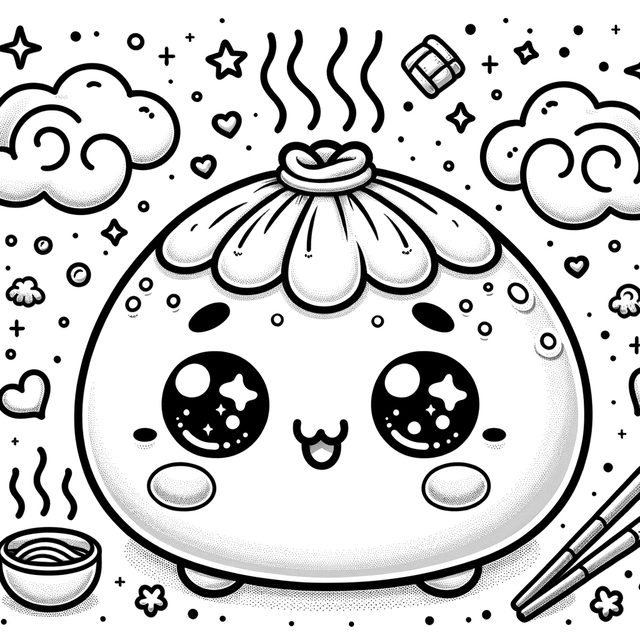
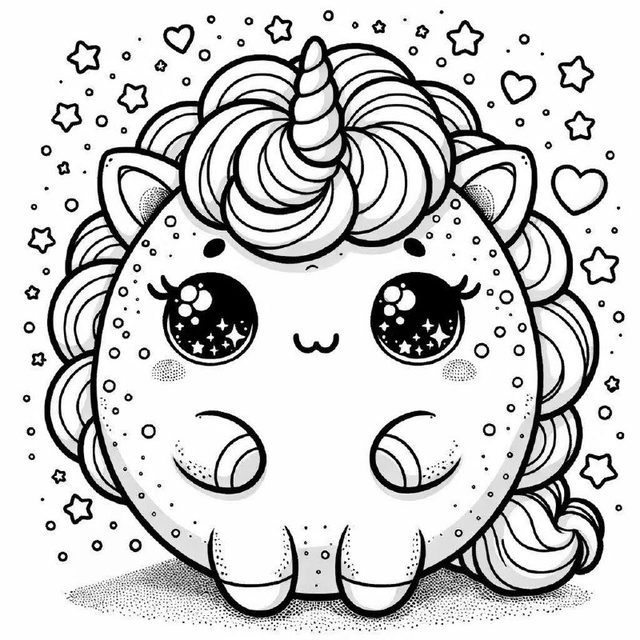
Add /color in-browser coloring page, dumpling easter egg, unicorn Mini Pack preview, IndexNow key
- color.html: canvas flood-fill coloring of The Dumpling, 12-color palette,
  undo/reset/download, CTA to /free
- 5 taps on the homepage dumpling icon -> pixel confetti + secret bonus page modal
- Mini Pack preview image swapped dumpling -> unicorn (dumpling stays online-exclusive)
- footer Color Online link, /color redirect, sitemap entry

diff --git a/color.html b/color.html
@@ -1,0 +1,191 @@
+<!DOCTYPE html>
+<html lang="en">
+<head>
+  <meta charset="UTF-8" />
+  <meta name="viewport" content="width=device-width, initial-scale=1.0" />
+  <title>Color The Dumpling Online – Free In-Browser Coloring | VoxelInk Studios</title>
+  <meta name="description" content="Color The Dumpling right in your browser - tap to fill, pick your colors, and download your masterpiece. A free kawaii coloring page from VoxelInk Studios." />
+  <link rel="canonical" href="https://voxelinkstudios.com/color" />
+  <link rel="preconnect" href="https://fonts.googleapis.com" />
+  <link rel="preconnect" href="https://fonts.gstatic.com" crossorigin />
+  <link href="https://fonts.googleapis.com/css2?family=Press+Start+2P&family=Inter:wght@400;500;600;700&display=swap" rel="stylesheet" />
+  <link rel="stylesheet" href="css/style.css" />
+  <style>
+    .color-hero { padding: 4rem 1rem 3rem; text-align: center; }
+    .color-hero .section-inner { max-width: 860px; margin: 0 auto; }
+    .color-stage {
+      background: #fff; border-radius: 14px; padding: 12px;
+      max-width: 560px; margin: 1.75rem auto 0;
+      box-shadow: 0 10px 36px rgba(0,0,0,0.25);
+    }
+    #colorCanvas { width: 100%; height: auto; display: block; border-radius: 8px; cursor: crosshair; touch-action: manipulation; }
+    .palette {
+      display: flex; flex-wrap: wrap; gap: 10px; justify-content: center;
+      margin: 1.25rem auto 0; max-width: 560px;
+    }
+    .swatch {
+      width: 42px; height: 42px; border-radius: 10px; border: 3px solid transparent;
+      cursor: pointer; padding: 0; transition: transform 0.12s, border-color 0.12s;
+    }
+    .swatch:hover { transform: scale(1.12); }
+    .swatch.active { border-color: #fff; box-shadow: 0 0 0 2px #e91e8c; transform: scale(1.12); }
+    .color-actions { display: flex; gap: 12px; justify-content: center; margin-top: 1.25rem; flex-wrap: wrap; }
+    .color-note { font-size: 0.85rem; color: var(--text-muted, #999); margin-top: 0.9rem; }
+    .color-cta {
+      margin: 2.5rem auto 0; max-width: 560px; padding: 1.5rem;
+      border: 2px dashed #e91e8c; border-radius: 14px;
+    }
+    .color-cta h2 { font-family: var(--pixel-font); font-size: 0.85rem; margin: 0 0 0.6rem; color: #e91e8c; }
+    .color-cta p { margin: 0 0 1rem; }
+  </style>
+</head>
+<body>
+
+  <section class="signup color-hero">
+    <div class="section-inner">
+      <div class="section-label">Play Right Here</div>
+      <h1 class="section-title">Color The Dumpling</h1>
+      <p class="signup-sub">Pick a color, then tap anywhere on the picture to fill it in. No printer needed - color right in your browser!</p>
+
+      <div class="color-stage">
+        <canvas id="colorCanvas" width="720" height="720" aria-label="Coloring canvas featuring The Dumpling - pick a color and tap to fill"></canvas>
+      </div>
+
+      <div class="palette" id="palette" role="toolbar" aria-label="Color palette"></div>
+
+      <div class="color-actions">
+        <button type="button" id="undoBtn" class="btn btn-etsy">Undo</button>
+        <button type="button" id="resetBtn" class="btn btn-etsy">Start Over</button>
+        <button type="button" id="downloadBtn" class="btn btn-primary">Download My Art</button>
+      </div>
+      <p class="color-note">Tip: tap the small spots too - every space can be a different color.</p>
+
+      <div class="color-cta">
+        <h2>Want 5 more pages like this?</h2>
+        <p>Get the free VoxelInk Mini Pack - printable coloring pages from all four of our books, sent straight to your inbox.</p>
+        <a class="btn btn-primary" href="/free">Get the Free Mini Pack →</a>
+      </div>
+
+      <a class="btn btn-etsy" style="margin-top:2rem;display:inline-block;" href="/">← Back to VoxelInk Studios</a>
+    </div>
+  </section>
+
+  <footer class="footer">
+    <div class="section-inner footer-inner">
+      <div class="footer-logo">
+        <span class="logo-pixel">▓</span> VoxelInk Studios
+      </div>
+      <p class="footer-copy">© 2026 VoxelInk Studios. All rights reserved. Not affiliated with Minecraft or Mojang. | <a href="/privacy-policy.html">Privacy Policy</a> | <a href="/terms.html">Terms of Service</a></p>
+    </div>
+  </footer>
+
+  <script>
+  (function () {
+    const canvas = document.getElementById('colorCanvas');
+    const ctx = canvas.getContext('2d', { willReadFrequently: true });
+    const W = canvas.width, H = canvas.height;
+
+    const COLORS = [
+      '#ff5a5f', '#ff9e42', '#ffd93d', '#7ed957', '#4ecdc4', '#4a9df8',
+      '#9b6bf3', '#ff8fab', '#a0664b', '#c9cdd6', '#3a3a44', '#ffffff'
+    ];
+    let current = COLORS[7]; // start on pink - it is The Dumpling after all
+    let history = [];
+
+    const palette = document.getElementById('palette');
+    COLORS.forEach((c, i) => {
+      const b = document.createElement('button');
+      b.type = 'button';
+      b.className = 'swatch' + (c === current ? ' active' : '');
+      b.style.background = c;
+      b.setAttribute('aria-label', 'Color ' + (i + 1));
+      b.addEventListener('click', () => {
+        current = c;
+        palette.querySelectorAll('.swatch').forEach((s) => s.classList.remove('active'));
+        b.classList.add('active');
+      });
+      palette.appendChild(b);
+    });
+
+    const img = new Image();
+    img.src = 'images/color-dumpling.png';
+    img.onload = () => {
+      ctx.fillStyle = '#ffffff';
+      ctx.fillRect(0, 0, W, H);
+      ctx.drawImage(img, 0, 0, W, H);
+      snapshot();
+    };
+
+    function snapshot() {
+      history.push(ctx.getImageData(0, 0, W, H));
+      if (history.length > 25) history.shift();
+    }
+
+    // Flood fill: dark pixels are outlines and act as walls.
+    const LINE_LUMA = 90;
+    function floodFill(x, y, hex) {
+      const imgData = ctx.getImageData(0, 0, W, H);
+      const d = imgData.data;
+      const idx = (y * W + x) * 4;
+      const luma = (d[idx] + d[idx + 1] + d[idx + 2]) / 3;
+      if (luma < LINE_LUMA) return false; // clicked an outline
+
+      const fr = parseInt(hex.slice(1, 3), 16), fg = parseInt(hex.slice(3, 5), 16), fb = parseInt(hex.slice(5, 7), 16);
+      const tr = d[idx], tg = d[idx + 1], tb = d[idx + 2];
+      if (Math.abs(tr - fr) + Math.abs(tg - fg) + Math.abs(tb - fb) < 12) return false; // same color
+
+      const TOL = 60;
+      const match = (i) => {
+        const l = (d[i] + d[i + 1] + d[i + 2]) / 3;
+        if (l < LINE_LUMA) return false;
+        return Math.abs(d[i] - tr) + Math.abs(d[i + 1] - tg) + Math.abs(d[i + 2] - tb) <= TOL * 3;
+      };
+
+      const stack = [y * W + x];
+      const seen = new Uint8Array(W * H);
+      seen[y * W + x] = 1;
+      while (stack.length) {
+        const p = stack.pop();
+        const i = p * 4;
+        d[i] = fr; d[i + 1] = fg; d[i + 2] = fb; d[i + 3] = 255;
+        const px = p % W, py = (p / W) | 0;
+        if (px > 0 && !seen[p - 1] && match((p - 1) * 4)) { seen[p - 1] = 1; stack.push(p - 1); }
+        if (px < W - 1 && !seen[p + 1] && match((p + 1) * 4)) { seen[p + 1] = 1; stack.push(p + 1); }
+        if (py > 0 && !seen[p - W] && match((p - W) * 4)) { seen[p - W] = 1; stack.push(p - W); }
+        if (py < H - 1 && !seen[p + W] && match((p + W) * 4)) { seen[p + W] = 1; stack.push(p + W); }
+      }
+      ctx.putImageData(imgData, 0, 0);
+      return true;
+    }
+
+    canvas.addEventListener('pointerdown', (e) => {
+      const r = canvas.getBoundingClientRect();
+      const x = Math.floor((e.clientX - r.left) * (W / r.width));
+      const y = Math.floor((e.clientY - r.top) * (H / r.height));
+      if (x < 0 || y < 0 || x >= W || y >= H) return;
+      if (floodFill(x, y, current)) snapshot();
+    });
+
+    document.getElementById('undoBtn').addEventListener('click', () => {
+      if (history.length > 1) {
+        history.pop();
+        ctx.putImageData(history[history.length - 1], 0, 0);
+      }
+    });
+    document.getElementById('resetBtn').addEventListener('click', () => {
+      if (history.length) {
+        ctx.putImageData(history[0], 0, 0);
+        history = [history[0]];
+      }
+    });
+    document.getElementById('downloadBtn').addEventListener('click', () => {
+      const a = document.createElement('a');
+      a.download = 'my-dumpling-coloring.png';
+      a.href = canvas.toDataURL('image/png');
+      a.click();
+    });
+  })();
+  </script>
+  <script data-goatcounter="https://voxelink.goatcounter.com/count" async src="//gc.zgo.at/count.js"></script>
+</body>
+</html>

diff --git a/js/main.js b/js/main.js
@@ -152,3 +152,61 @@ if (flipInners.length && booksSection && touchOnly && !prefersStill) {
   }, { threshold: 0.15 });
   flipObserver.observe(booksSection);
 }
+
+// ── DUMPLING EASTER EGG ──
+// Tap The Dumpling icon 5 times to unlock a secret bonus page.
+const dumpling = document.getElementById('dumplingIcon');
+if (dumpling) {
+  let taps = 0;
+  let lastTap = 0;
+  const CONFETTI_COLORS = ['#e91e8c', '#4ade80', '#f5b301', '#4a9df8', '#ff8fab', '#9b6bf3'];
+
+  dumpling.addEventListener('click', (e) => {
+    e.preventDefault();
+    e.stopPropagation();
+    const now = Date.now();
+    taps = now - lastTap < 3000 ? taps + 1 : 1;
+    lastTap = now;
+    // little squish per tap for feedback
+    dumpling.style.transform = 'scale(0.85)';
+    setTimeout(() => { dumpling.style.transform = ''; }, 120);
+    if (taps >= 5) {
+      taps = 0;
+      throwConfetti();
+      showEggModal();
+    }
+  });
+
+  function throwConfetti() {
+    if (window.matchMedia('(prefers-reduced-motion: reduce)').matches) return;
+    for (let i = 0; i < 70; i++) {
+      const c = document.createElement('div');
+      c.className = 'pixel-confetti';
+      c.style.left = Math.random() * 100 + 'vw';
+      c.style.background = CONFETTI_COLORS[i % CONFETTI_COLORS.length];
+      c.style.animationDuration = 1.6 + Math.random() * 1.8 + 's';
+      c.style.animationDelay = Math.random() * 0.6 + 's';
+      document.body.appendChild(c);
+      setTimeout(() => c.remove(), 4200);
+    }
+  }
+
+  function showEggModal() {
+    if (document.querySelector('.egg-overlay')) return;
+    const overlay = document.createElement('div');
+    overlay.className = 'egg-overlay';
+    overlay.innerHTML =
+      '<div class="egg-modal" role="dialog" aria-modal="true" aria-label="Secret unlocked">' +
+      '<button type="button" class="egg-close" aria-label="Close">×</button>' +
+      '<h3>You found The Dumpling’s secret!</h3>' +
+      '<p>Shhh... only true fans get this one. A secret bonus coloring page, just for finders like you.</p>' +
+      '<div class="egg-actions">' +
+      '<a class="btn btn-primary" href="images/bonus-boba.jpg" download="secret-squishy-page.jpg">Download the Secret Page</a>' +
+      '<a class="btn btn-etsy" href="/color">Color The Dumpling Online</a>' +
+      '</div></div>';
+    overlay.addEventListener('click', (e) => {
+      if (e.target === overlay || e.target.classList.contains('egg-close')) overlay.remove();
+    });
+    document.body.appendChild(overlay);
+  }
+}

diff --git a/css/style.css b/css/style.css
@@ -1041,3 +1041,36 @@ img { max-width: 100%; display: block; }
   .signup-fields { flex-direction: column; }
   .signup-btn { width: 100%; }
 }
+
+/* ── DUMPLING EASTER EGG ── */
+
+#dumplingIcon { cursor: pointer; }
+.pixel-confetti {
+  position: fixed; top: -14px; z-index: 9999; pointer-events: none;
+  width: 12px; height: 12px;
+  animation: confetti-fall linear forwards;
+}
+@keyframes confetti-fall {
+  to { transform: translateY(110vh) rotate(720deg); }
+}
+.egg-overlay {
+  position: fixed; inset: 0; z-index: 9998;
+  background: rgba(10, 8, 18, 0.82);
+  display: flex; align-items: center; justify-content: center; padding: 1.25rem;
+}
+.egg-modal {
+  background: #fff0f6; color: #3a2b2b; border: 3px solid #e91e8c;
+  border-radius: 16px; max-width: 420px; width: 100%;
+  padding: 2rem 1.75rem; text-align: center; position: relative;
+  box-shadow: 0 18px 60px rgba(0,0,0,0.45);
+}
+.egg-modal h3 { font-family: var(--pixel-font); font-size: 0.9rem; color: #c2185b; line-height: 1.7; margin: 0 0 0.75rem; }
+.egg-modal p { font-size: 0.95rem; line-height: 1.6; margin: 0 0 1.25rem; }
+.egg-modal .egg-actions { display: flex; flex-direction: column; gap: 10px; }
+.egg-close {
+  position: absolute; top: 10px; right: 14px; border: 0; background: none;
+  font-size: 1.4rem; cursor: pointer; color: #c2185b; line-height: 1;
+}
+@media (prefers-reduced-motion: reduce) {
+  .pixel-confetti { display: none; }
+}

diff --git a/free.html b/free.html
@@ -58,7 +58,7 @@
         <p>You're in! Check your email - your Mini Pack is on the way.</p>
       </div>
 
-      <img class="free-preview" src="images/mini-pack-preview.jpg" alt="Sample coloring page from the Mini Pack - a cute kawaii dumpling character" loading="lazy" />
+      <img class="free-preview" src="images/mini-pack-preview.jpg" alt="Sample coloring page from the Mini Pack - a cute kawaii unicorn character" loading="lazy" />
 
       <div class="free-covers" aria-hidden="true">
         <img src="images/book1-voxel-cover.jpg" alt="" loading="lazy" />
@@ -68,6 +68,7 @@
       </div>
       <p class="signup-note">Pages come from these four books.</p>
 
+      <a class="btn btn-primary free-back" href="/color" style="margin-right:0.75rem;">Try Coloring in Your Browser →</a>
       <a class="btn btn-etsy free-back" href="/">← Back to VoxelInk Studios</a>
     </div>
   </section>

diff --git a/index.html b/index.html
@@ -193,7 +193,7 @@
           <span class="world-cta">Explore Voxel Pals →</span>
         </a>
         <a href="#squishy" class="world-card world-card--squishy">
-          <div class="world-emoji">
+          <div class="world-emoji" id="dumplingIcon" title="The Dumpling">
             <svg viewBox="0 0 64 60" width="80" height="75" aria-hidden="true">
               <defs>
                 <radialGradient id="dumplingDough" cx="38%" cy="30%" r="82%">
@@ -523,6 +523,7 @@
         <a href="#about">About</a>
         <a href="https://www.etsy.com/shop/VoxelInkStudios" target="_blank" rel="noopener">Etsy Shop</a>
         <a href="/free">Free Pages</a>
+        <a href="/color">Color Online</a>
       </div>
       <div class="footer-social">
         <a href="https://www.youtube.com/@voxelinkstudios" target="_blank" rel="noopener" aria-label="YouTube">YouTube</a>